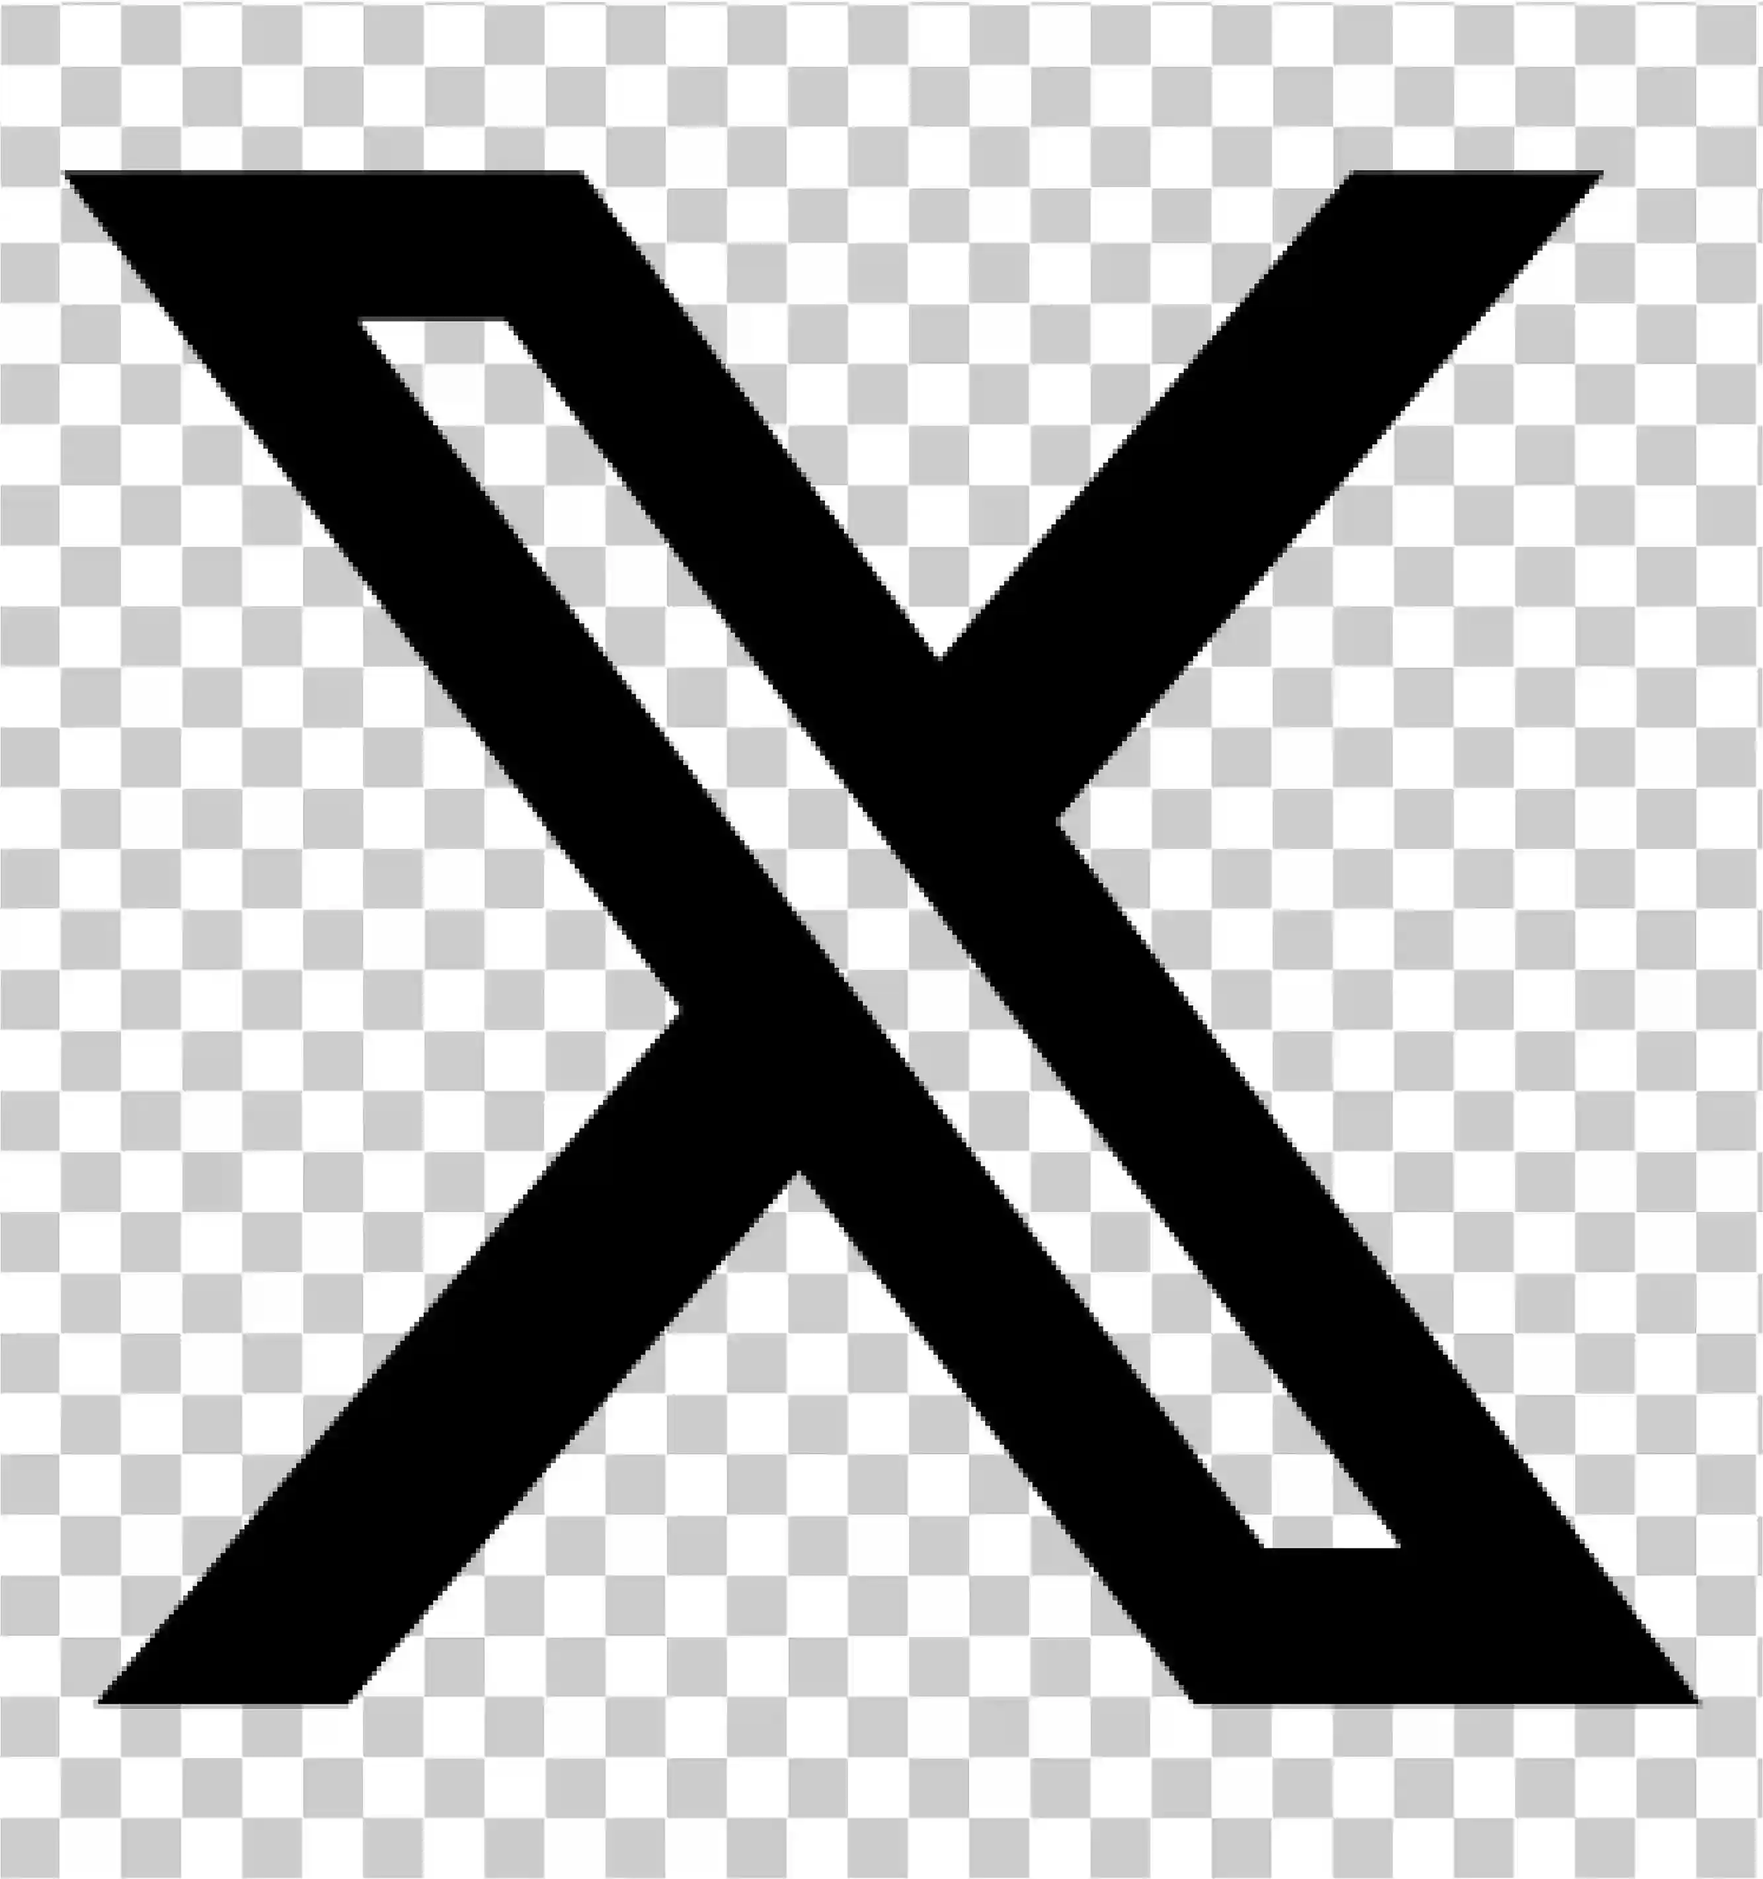
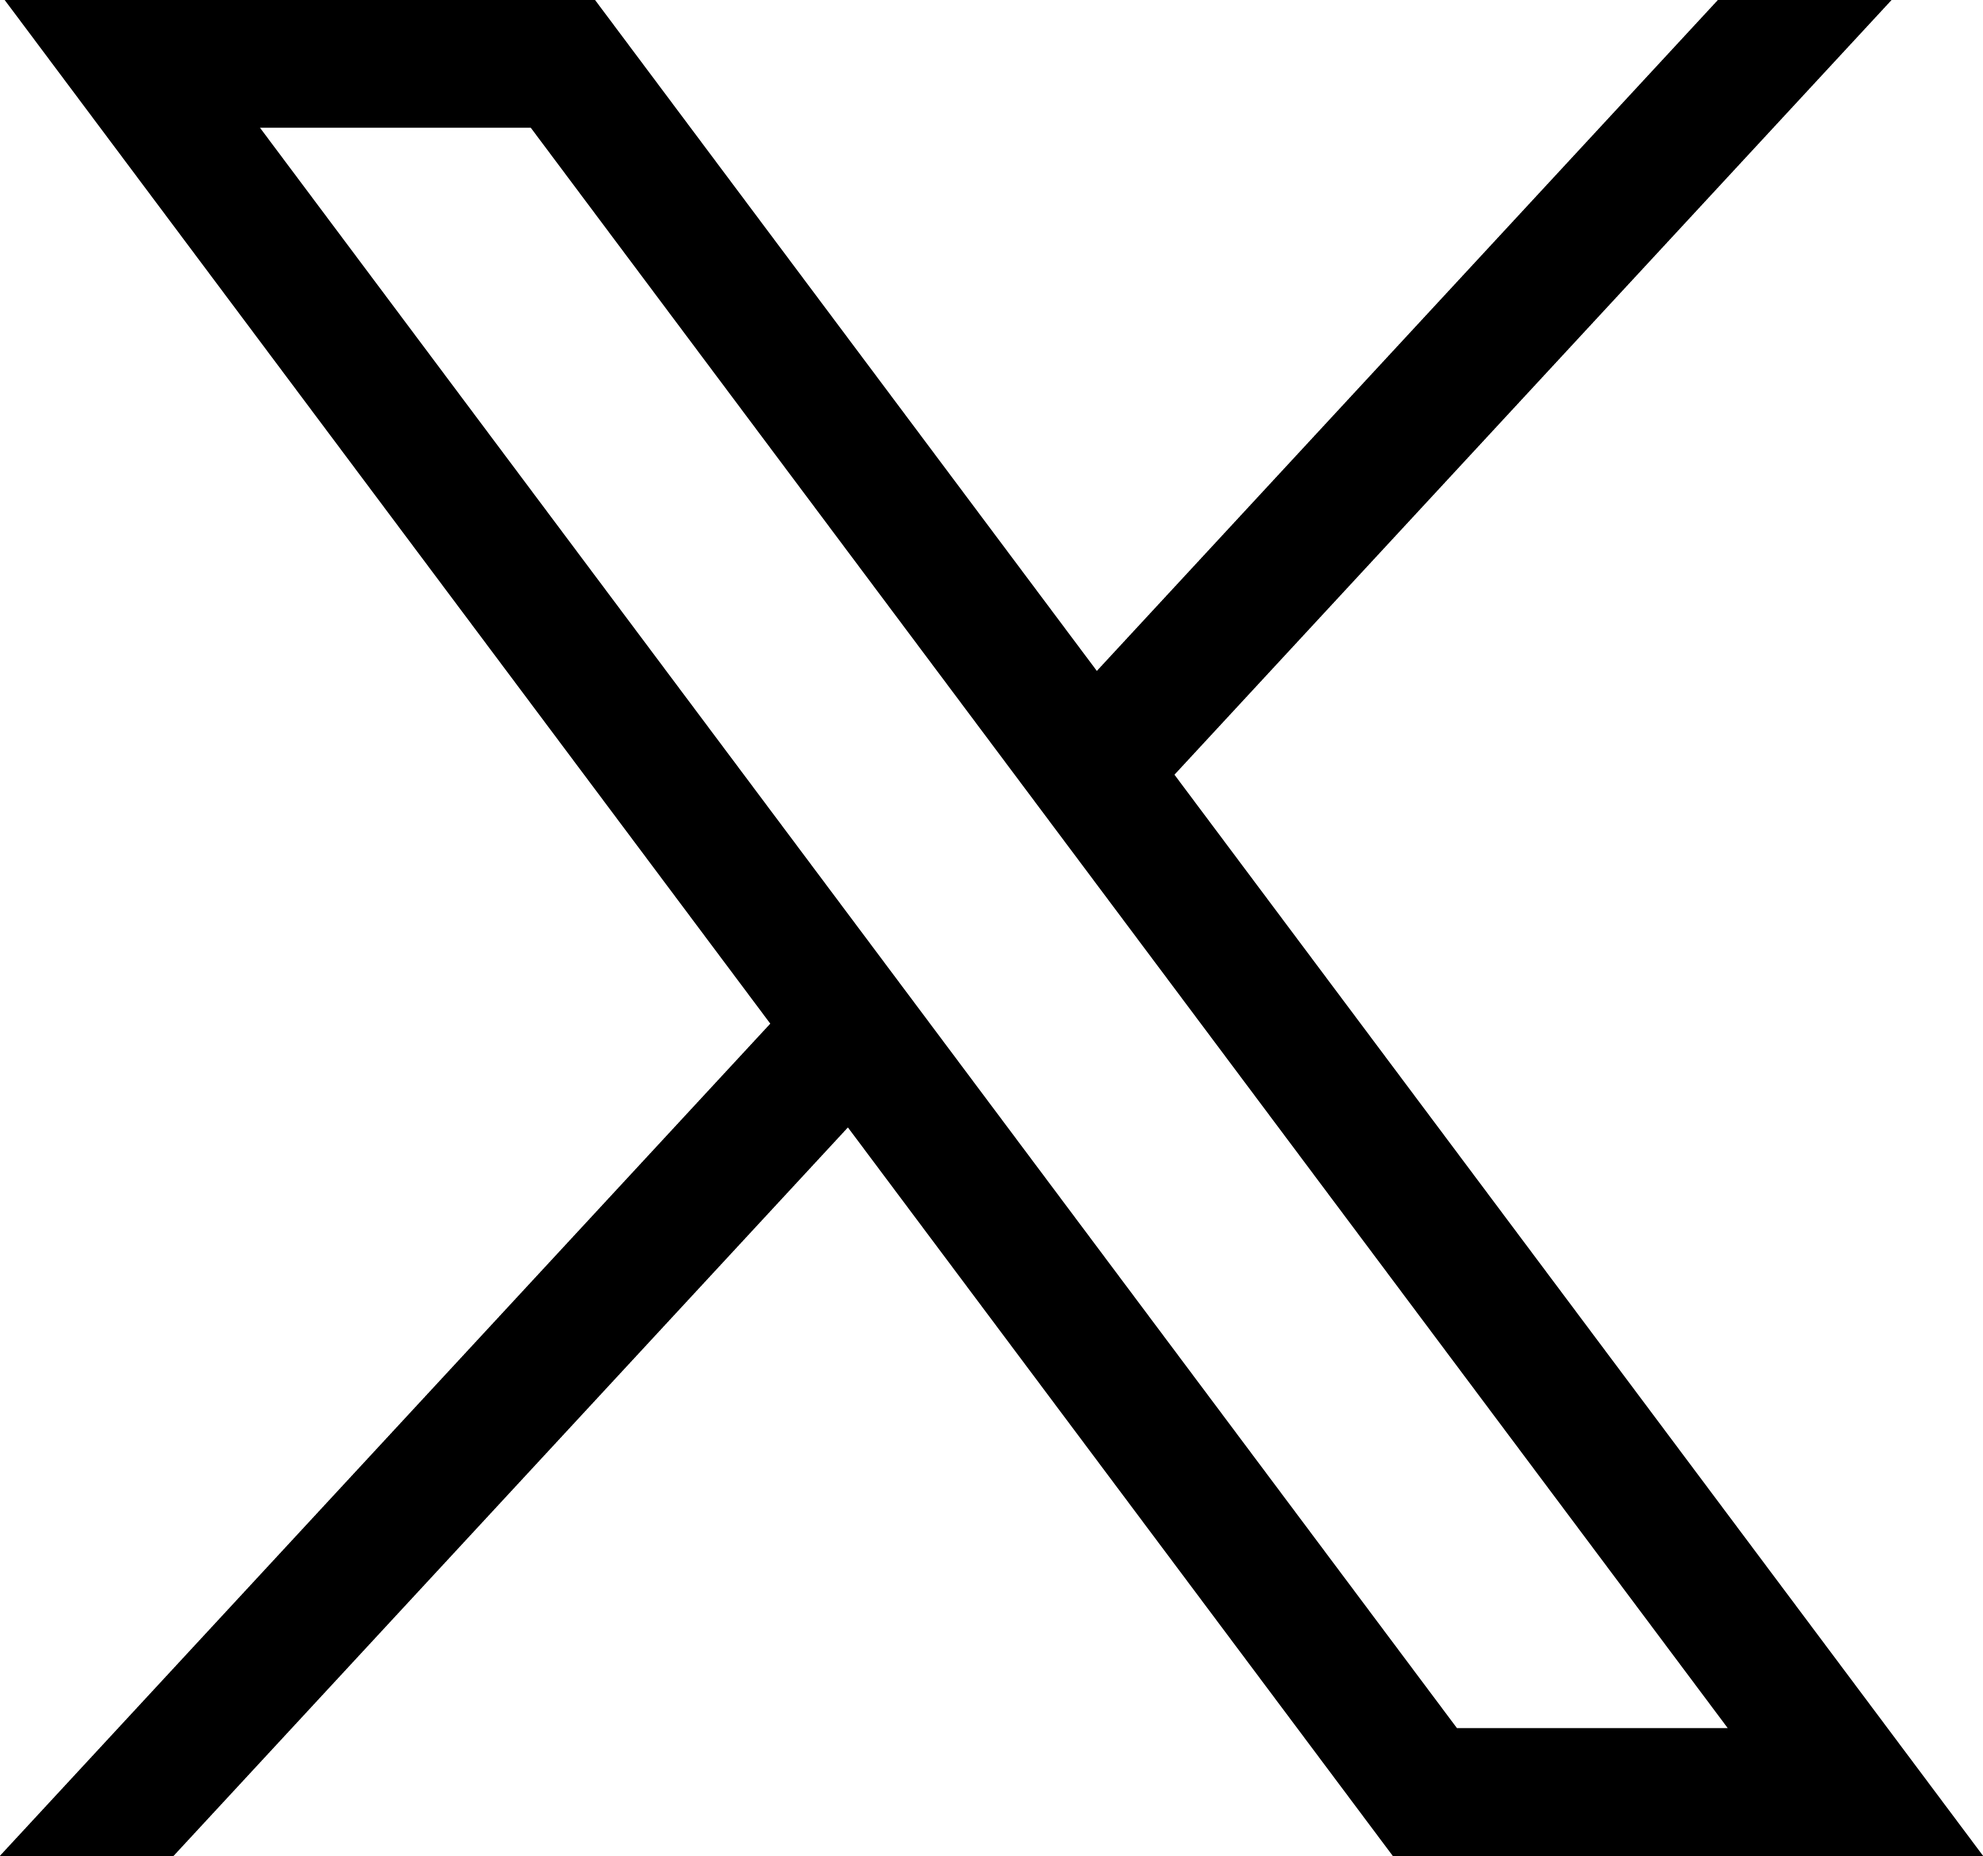
Cambio de las imagenes de Instagram y cmabios en el style.css

diff --git a/style.css b/style.css
@@ -347,11 +347,15 @@ body {
         width: 26px;
         height: 26px;
         filter: drop-shadow(0 0 4px rgba(159, 197, 255, 0.6));
+        mix-blend-mode: multiply;
+        background: transparent;
     }
 
-    /* EFECTO HOVER */
+    
+       
+    /* EFECTO HOVER */  
     .social-icon:hover {
-        transform: scale(1.15);
-        background: rgba(159, 197, 255, 0.35);
-        box-shadow: 0 0 12px rgba(159, 197, 255, 0.6);
-    }
+            transform: scale(1.15);
+            background: rgba(159, 197, 255, 0.35);
+            box-shadow: 0 0 12px rgba(159, 197, 255, 0.6);
+        }
